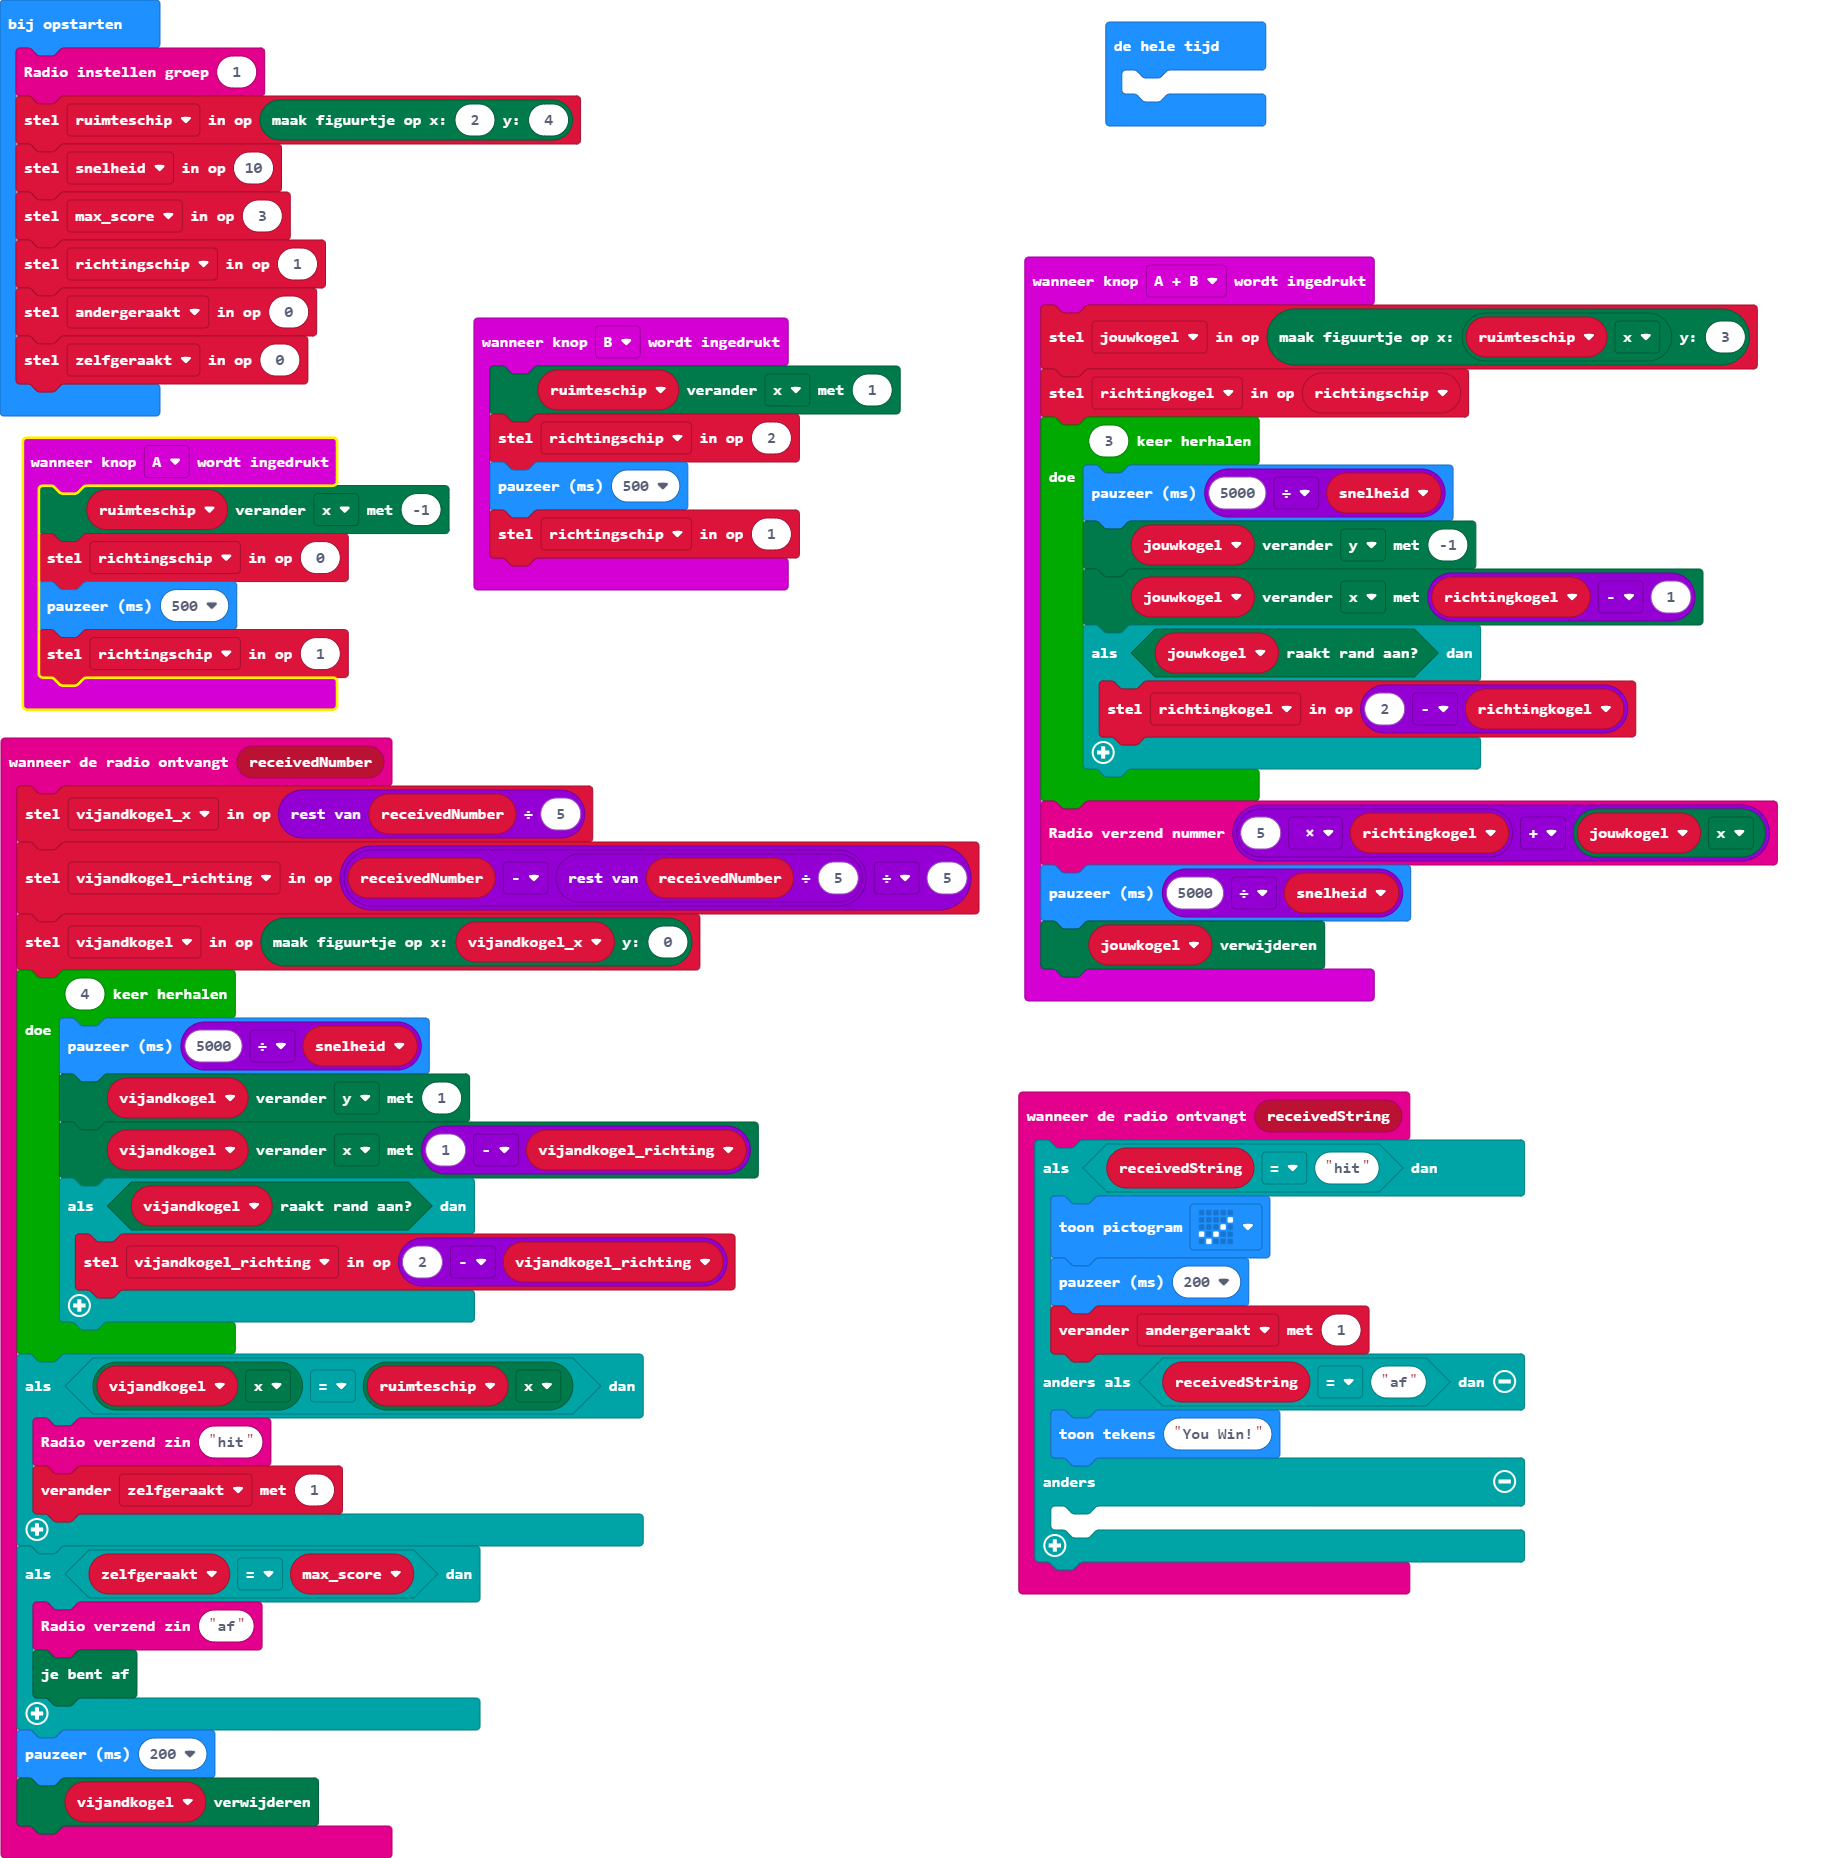
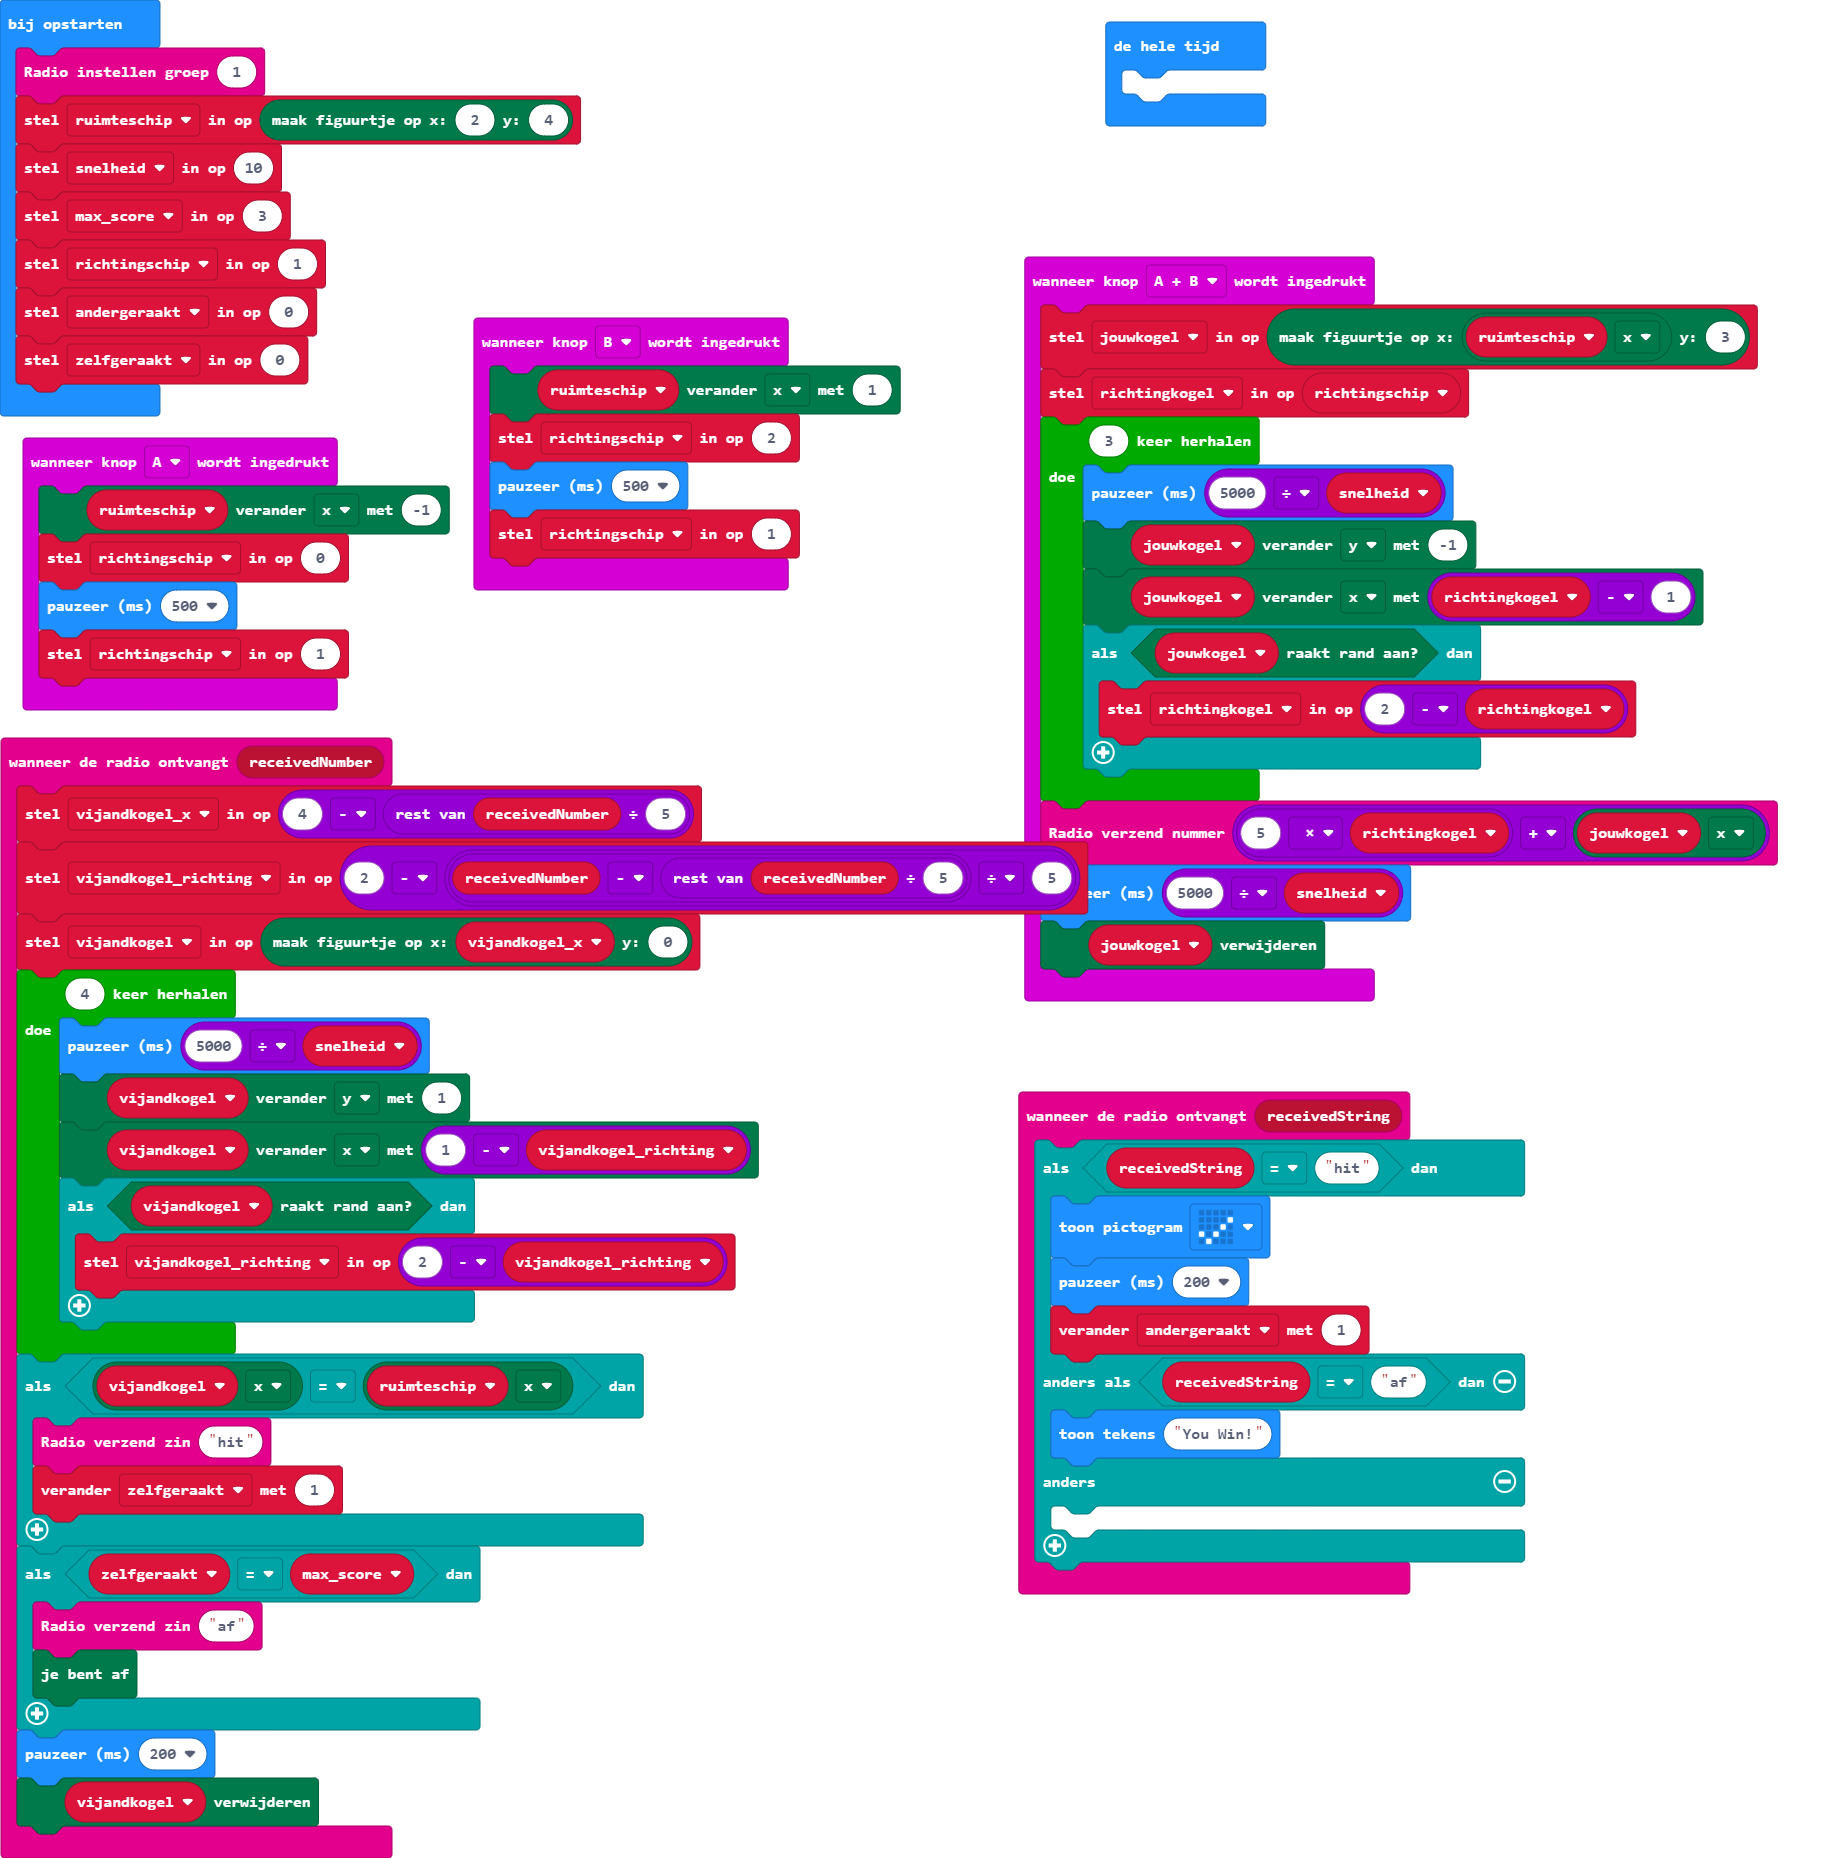
richting gespiegeld

diff --git a/main.ts b/main.ts
@@ -1,6 +1,6 @@
 radio.onReceivedNumber(function (receivedNumber) {
-    vijandkogel_x = receivedNumber % 5
-    vijandkogel_richting = (receivedNumber - receivedNumber % 5) / 5
+    vijandkogel_x = 4 - receivedNumber % 5
+    vijandkogel_richting = 2 - (receivedNumber - receivedNumber % 5) / 5
     vijandkogel = game.createSprite(vijandkogel_x, 0)
     for (let index = 0; index < 4; index++) {
         basic.pause(5000 / snelheid)
